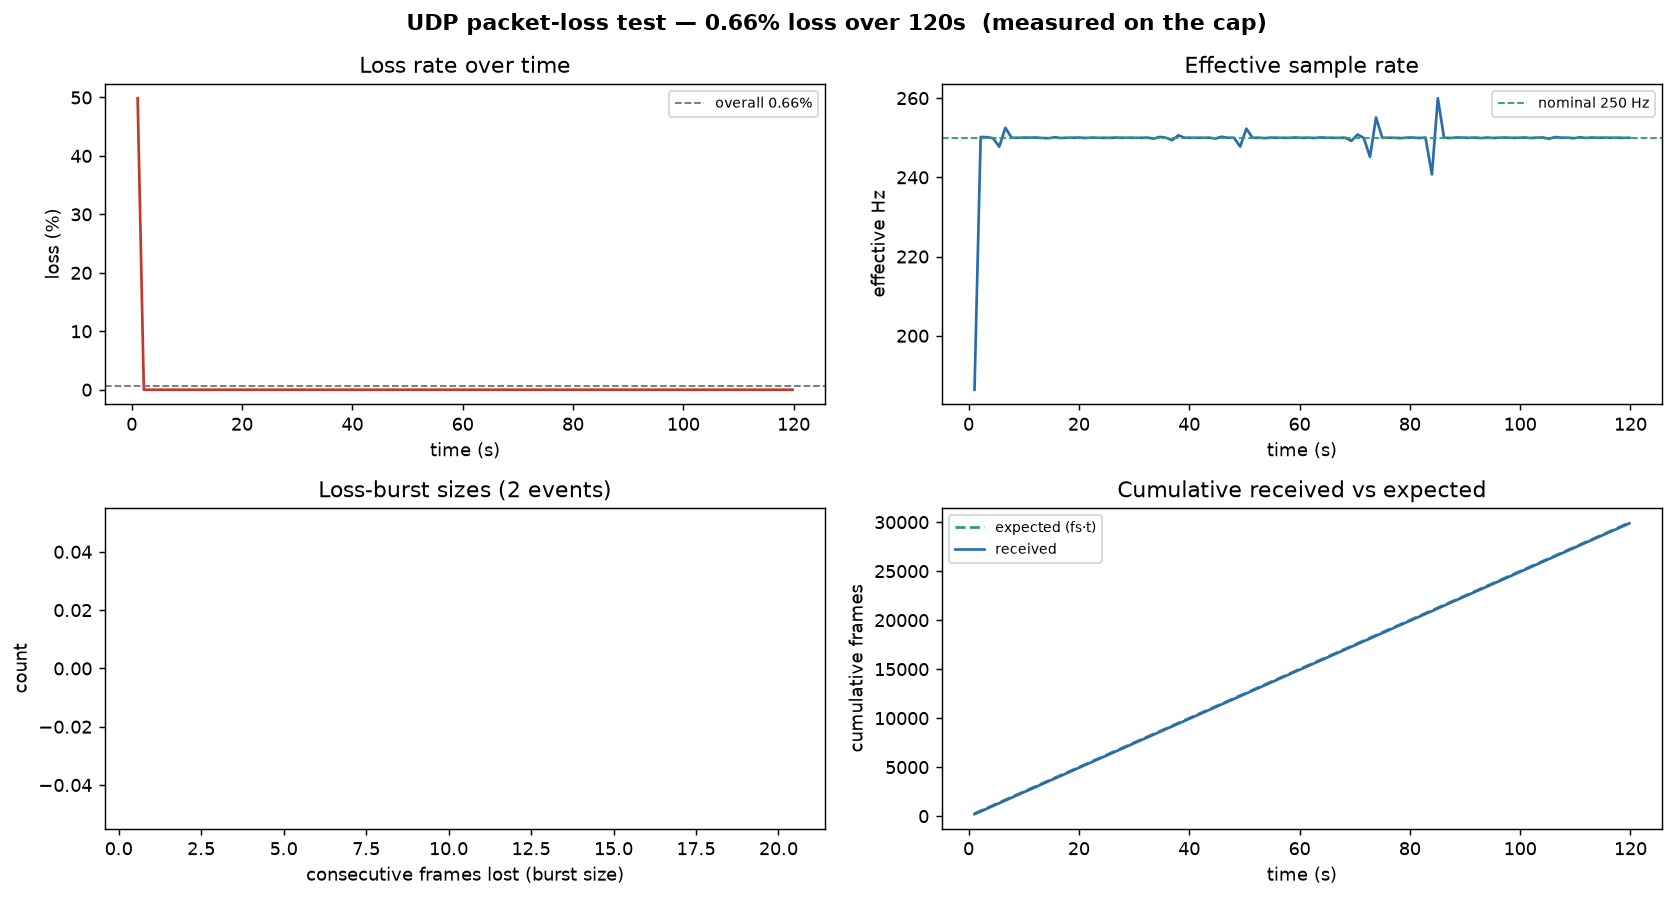
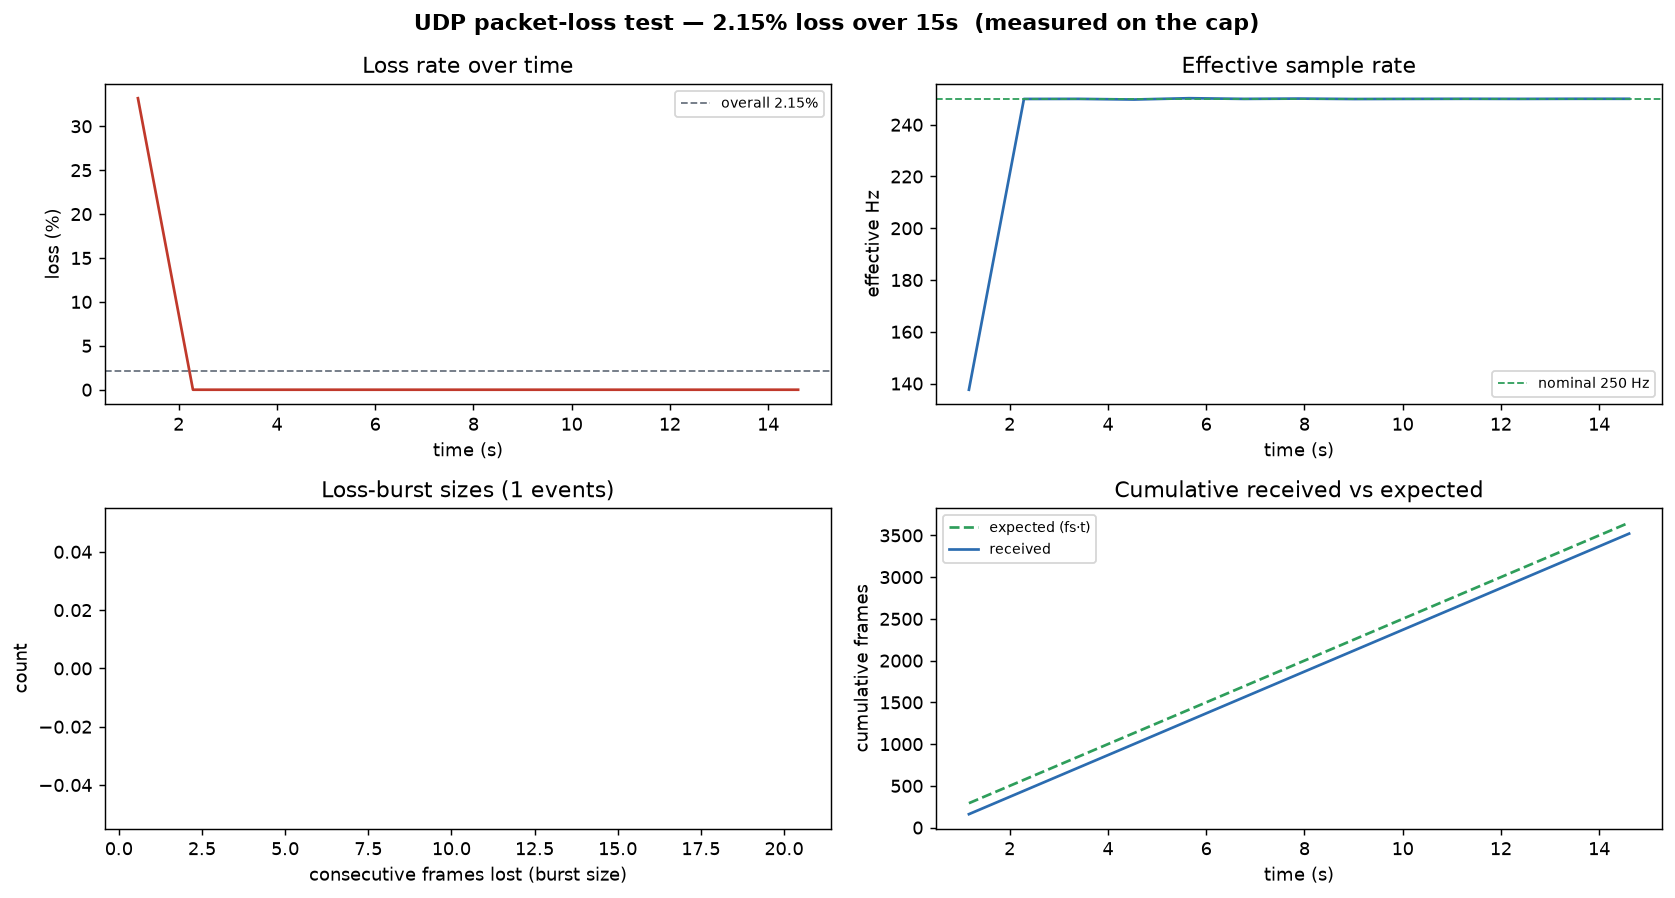
Drain the board_init transient; keep a dead channel out of CAR and ICA
Diagnosed live on the cap: F7 returns a CONSTANT +187500 µV (0x7FFFFF, positive full
scale) on every sample in BOTH EEG and impedance mode, while the other 31 channels are
healthy. That is an open input floating to the rail — a disconnected electrode/wire, not
a contact problem, so pressing harder can never help.

- impedance_gui: a railed channel's 31.2 Hz amplitude is 0 by construction (the signal is
  a constant), so the amplitude label printed a meaningless "0" and hid the fault. Railed
  channels now read RAIL again while good ones keep showing µV.
- Dead channel vs CAR (measured on that recording): the live median CAR is robust, but
  MNE's average reference is a MEAN and shifted every channel by ~6.4 mV when the dead
  channel was not excluded. artifacts.preprocess now always FLAGS bad channels (previously
  only when interpolating) and LiveDeblink.calibrate flags them before average-referencing
  and fitting ICA, which also avoids a rank-deficient fit. The live Receiver excludes dead
  channels from its median CAR, shows them as DEAD, and records them in the metadata.
- udp_lsl_bridge.drain(): board_init restarts the stream on each mode switch, so the
  frames buffered across it carry a discontinuous sequence counter and look like a ~200
  frame loss burst. Draining after init drops that; measured steady-state loss is 0.000%.

diff --git a/cap32_acquisition/cap_gui.py b/cap32_acquisition/cap_gui.py
@@ -105,6 +105,7 @@ class Receiver(threading.Thread):
         self._last_sample = None
         self.filled = 0                  # samples reconstructed to cover dropped frames
         self.car = True                  # live toggle: common average reference
+        self.bad = np.zeros(n_ch, bool)  # dead/railed channels — excluded from CAR
         self.deblink = None              # live toggle: a calibrated LiveDeblink operator or None
         self.calib = Ring(n_ch, int(30 * fs))   # rolling buffer for ICA calibration
 
@@ -165,7 +166,14 @@ class Receiver(threading.Thread):
         # Common Average Reference (robust, median) — removes common-mode / floating-REF
         # drift shared across channels (the vendor GUI does this before filtering). Toggleable
         # so you can see the untouched (floating-reference) data.
-        base = raw_chunk - np.median(raw_chunk, axis=0, keepdims=True) if self.car else raw_chunk
+        if self.car:
+            # Median (not mean) so one rogue channel can't shift the reference, AND skip
+            # channels already known to be dead/railed: an electrode pinned at +full scale
+            # would otherwise drag the reference by ~fullscale/n_ch on EVERY channel.
+            good = raw_chunk[~self.bad] if (~self.bad).any() else raw_chunk
+            base = raw_chunk - np.median(good, axis=0, keepdims=True)
+        else:
+            base = raw_chunk
         self.calib.append(base.astype(np.float32))            # pre-deblink, for ICA calibration
         if self.deblink is not None:                          # live ICA eye-artifact removal
             base = self.deblink.apply(base).astype(np.float32)
@@ -192,11 +200,12 @@ class Receiver(threading.Thread):
                     time.sleep(step / self.fs)
                 return
             # hardware: udp/tcp via the shared parser
-            from udp_lsl_bridge import UdpSource, TcpSource, parse_packet, board_init
+            from udp_lsl_bridge import UdpSource, TcpSource, parse_packet, board_init, drain
             self.report(f"connecting {self.kind}://{self.host}:{self.port} …")
             self.src = (UdpSource(self.host, self.port) if self.kind == "udp"
                         else TcpSource(self.host, self.port))
             board_init(self.src, self.fs)   # 'b' start -> rate -> '*' EEG mode (leaves impedance)
+            drain(self.src)                 # drop the mode-switch transient before counting loss
             self.report("connected · sent init (b / rate / *) · waiting for frames …")
             for pkt in self.src.frames():
                 if not self.running:
@@ -561,12 +570,18 @@ def refresh_scope(ctx):
         c.setData(ctx["tvec"], np.clip(y / clip, -1.0, 1.0) * half + ctx["baselines"][i])
 
 
-def refresh_quality(ctx):
+def refresh_quality(ctx, recv=None):
     b = ctx["raw"].snapshot()
+    dead = np.zeros(len(ctx["cells"]), bool)
     for i, (dot, val) in enumerate(ctx["cells"]):
         s, rms = quality(b[i], ctx["fs"])
+        flat = rms < 0.5                      # constant channel = disconnected / powered down
+        dead[i] = flat
         dot.setStyleSheet(f"color:{_COL[s]};font-size:13px;")
-        val.setText(f"{rms:5.1f} µV"); val.setStyleSheet(f"color:{_COL[s]};font-size:11px;")
+        val.setText("DEAD" if flat else f"{rms:5.1f} µV")
+        val.setStyleSheet(f"color:{_COL[s]};font-size:11px;")
+    if recv is not None:
+        recv.bad = dead                       # keep CAR / head-map free of dead channels
 
 
 def refresh_fft(ctx):
@@ -671,7 +686,9 @@ def run_live(fs, source_kind, host, port):
             data, trig, marker, gap = out
             meta = dict(paradigm=dict(kind="free-run (no paradigm)"),
                         acquisition=dict(source=r.kind, sfreq=float(ctx["fs"]),
-                                         car=bool(r.car), channels=list(CAP32_CHANNELS)),
+                                         car=bool(r.car), channels=list(CAP32_CHANNELS),
+                                         dead_channels=[CAP32_CHANNELS[i]
+                                                        for i in np.where(r.bad)[0]]),
                         link=dict(frames_received=int(r.n), frames_lost=int(r.lost),
                                   loss_pct=round(100 * r.lost / max(1, r.n + r.lost), 3)))
             base = save_recording(data, trig, marker, ctx["fs"], CAP32_CHANNELS,
@@ -729,7 +746,9 @@ def run_live(fs, source_kind, host, port):
                                  deblink=r.deblink is not None,
                                  display_filter=dict(low=c["low"].text(), high=c["high"].text(),
                                                      notch50=c["notch"].isChecked()),
-                                 channels=list(CAP32_CHANNELS)),
+                                 channels=list(CAP32_CHANNELS),
+                                 dead_channels=[CAP32_CHANNELS[i]
+                                                for i in np.where(r.bad)[0]]),
                 link=dict(frames_received=int(r.n), frames_lost=int(r.lost),
                           loss_pct=round(100 * r.lost / max(1, r.n + r.lost), 3),
                           samples_filled=int(r.filled)))
@@ -788,7 +807,7 @@ def run_live(fs, source_kind, host, port):
 
     ctx["root"].show()
     t1 = QtCore.QTimer(); t1.timeout.connect(lambda: refresh_scope(ctx)); t1.start(33)
-    t2 = QtCore.QTimer(); t2.timeout.connect(lambda: refresh_quality(ctx)); t2.start(500)
+    t2 = QtCore.QTimer(); t2.timeout.connect(lambda: refresh_quality(ctx, rec["thread"])); t2.start(500)
     t3 = QtCore.QTimer(); t3.timeout.connect(lambda: refresh_fft(ctx)); t3.start(300)
     QtCore.QTimer.singleShot(200, connect)   # auto-connect on launch (uses --source)
     app.exec()

diff --git a/src/acquisition/cap_gui.py b/src/acquisition/cap_gui.py
@@ -104,6 +104,7 @@ class Receiver(threading.Thread):
         self._last_sample = None
         self.filled = 0                  # samples reconstructed to cover dropped frames
         self.car = True                  # live toggle: common average reference
+        self.bad = np.zeros(n_ch, bool)  # dead/railed channels — excluded from CAR
         self.deblink = None              # live toggle: a calibrated LiveDeblink operator or None
         self.calib = Ring(n_ch, int(30 * fs))   # rolling buffer for ICA calibration
 
@@ -164,7 +165,14 @@ class Receiver(threading.Thread):
         # Common Average Reference (robust, median) — removes common-mode / floating-REF
         # drift shared across channels (the vendor GUI does this before filtering). Toggleable
         # so you can see the untouched (floating-reference) data.
-        base = raw_chunk - np.median(raw_chunk, axis=0, keepdims=True) if self.car else raw_chunk
+        if self.car:
+            # Median (not mean) so one rogue channel can't shift the reference, AND skip
+            # channels already known to be dead/railed: an electrode pinned at +full scale
+            # would otherwise drag the reference by ~fullscale/n_ch on EVERY channel.
+            good = raw_chunk[~self.bad] if (~self.bad).any() else raw_chunk
+            base = raw_chunk - np.median(good, axis=0, keepdims=True)
+        else:
+            base = raw_chunk
         self.calib.append(base.astype(np.float32))            # pre-deblink, for ICA calibration
         if self.deblink is not None:                          # live ICA eye-artifact removal
             base = self.deblink.apply(base).astype(np.float32)
@@ -191,11 +199,12 @@ class Receiver(threading.Thread):
                     time.sleep(step / self.fs)
                 return
             # hardware: udp/tcp via the shared parser
-            from udp_lsl_bridge import UdpSource, TcpSource, parse_packet, board_init
+            from udp_lsl_bridge import UdpSource, TcpSource, parse_packet, board_init, drain
             self.report(f"connecting {self.kind}://{self.host}:{self.port} …")
             self.src = (UdpSource(self.host, self.port) if self.kind == "udp"
                         else TcpSource(self.host, self.port))
             board_init(self.src, self.fs)   # 'b' start -> rate -> '*' EEG mode (leaves impedance)
+            drain(self.src)                 # drop the mode-switch transient before counting loss
             self.report("connected · sent init (b / rate / *) · waiting for frames …")
             for pkt in self.src.frames():
                 if not self.running:
@@ -560,12 +569,18 @@ def refresh_scope(ctx):
         c.setData(ctx["tvec"], np.clip(y / clip, -1.0, 1.0) * half + ctx["baselines"][i])
 
 
-def refresh_quality(ctx):
+def refresh_quality(ctx, recv=None):
     b = ctx["raw"].snapshot()
+    dead = np.zeros(len(ctx["cells"]), bool)
     for i, (dot, val) in enumerate(ctx["cells"]):
         s, rms = quality(b[i], ctx["fs"])
+        flat = rms < 0.5                      # constant channel = disconnected / powered down
+        dead[i] = flat
         dot.setStyleSheet(f"color:{_COL[s]};font-size:13px;")
-        val.setText(f"{rms:5.1f} µV"); val.setStyleSheet(f"color:{_COL[s]};font-size:11px;")
+        val.setText("DEAD" if flat else f"{rms:5.1f} µV")
+        val.setStyleSheet(f"color:{_COL[s]};font-size:11px;")
+    if recv is not None:
+        recv.bad = dead                       # keep CAR / head-map free of dead channels
 
 
 def refresh_fft(ctx):
@@ -670,7 +685,9 @@ def run_live(fs, source_kind, host, port):
             data, trig, marker, gap = out
             meta = dict(paradigm=dict(kind="free-run (no paradigm)"),
                         acquisition=dict(source=r.kind, sfreq=float(ctx["fs"]),
-                                         car=bool(r.car), channels=list(CAP32_CHANNELS)),
+                                         car=bool(r.car), channels=list(CAP32_CHANNELS),
+                                         dead_channels=[CAP32_CHANNELS[i]
+                                                        for i in np.where(r.bad)[0]]),
                         link=dict(frames_received=int(r.n), frames_lost=int(r.lost),
                                   loss_pct=round(100 * r.lost / max(1, r.n + r.lost), 3)))
             base = save_recording(data, trig, marker, ctx["fs"], CAP32_CHANNELS,
@@ -728,7 +745,9 @@ def run_live(fs, source_kind, host, port):
                                  deblink=r.deblink is not None,
                                  display_filter=dict(low=c["low"].text(), high=c["high"].text(),
                                                      notch50=c["notch"].isChecked()),
-                                 channels=list(CAP32_CHANNELS)),
+                                 channels=list(CAP32_CHANNELS),
+                                 dead_channels=[CAP32_CHANNELS[i]
+                                                for i in np.where(r.bad)[0]]),
                 link=dict(frames_received=int(r.n), frames_lost=int(r.lost),
                           loss_pct=round(100 * r.lost / max(1, r.n + r.lost), 3),
                           samples_filled=int(r.filled)))
@@ -787,7 +806,7 @@ def run_live(fs, source_kind, host, port):
 
     ctx["root"].show()
     t1 = QtCore.QTimer(); t1.timeout.connect(lambda: refresh_scope(ctx)); t1.start(33)
-    t2 = QtCore.QTimer(); t2.timeout.connect(lambda: refresh_quality(ctx)); t2.start(500)
+    t2 = QtCore.QTimer(); t2.timeout.connect(lambda: refresh_quality(ctx, rec["thread"])); t2.start(500)
     t3 = QtCore.QTimer(); t3.timeout.connect(lambda: refresh_fft(ctx)); t3.start(300)
     QtCore.QTimer.singleShot(200, connect)   # auto-connect on launch (uses --source)
     app.exec()

diff --git a/cap32_acquisition/artifacts.py b/cap32_acquisition/artifacts.py
@@ -99,11 +99,11 @@ def preprocess(raw, flags: CleanFlags, verbose=False):
         raw.notch_filter(flags.notch, verbose="ERROR")
     if flags.l_freq or flags.h_freq:
         raw.filter(flags.l_freq or None, flags.h_freq or None, verbose="ERROR")
-    if flags.interp:
-        bad = detect_bad_channels(raw)
-        raw.info["bads"] = bad
-        if bad and raw.get_montage() is not None:
-            raw.interpolate_bads(reset_bads=True, verbose="ERROR")
+    bad = detect_bad_channels(raw)          # always FLAG (so CAR/ICA exclude them) …
+    raw.info["bads"] = bad
+    report["bad"] = bad
+    if flags.interp and bad and raw.get_montage() is not None:
+        raw.interpolate_bads(reset_bads=True, verbose="ERROR")   # … interpolate only if asked
         report["interpolated"] = bad
     if flags.car:
         raw.set_eeg_reference("average", verbose="ERROR")
@@ -169,6 +169,10 @@ class LiveDeblink:
         info.set_montage(mne.channels.make_standard_montage("standard_1020"),
                          match_case=False, on_missing="ignore", verbose="ERROR")
         raw = mne.io.RawArray(buf_uv * 1e-6, info, verbose="ERROR")
+        # A dead/railed channel (e.g. an electrode pinned at +full scale) would otherwise
+        # poison the MEAN reference (~fullscale/n_ch on every channel) and make the data
+        # rank-deficient once ICA centres it. Exclude it from both.
+        raw.info["bads"] = detect_bad_channels(raw)
         raw.set_eeg_reference("average", verbose="ERROR")
         ica = fit_ica(raw)
         labels, probs, exclude = label_ica(ica, raw, method, prob=prob)

diff --git a/src/analysis/artifacts.py b/src/analysis/artifacts.py
@@ -98,11 +98,11 @@ def preprocess(raw, flags: CleanFlags, verbose=False):
         raw.notch_filter(flags.notch, verbose="ERROR")
     if flags.l_freq or flags.h_freq:
         raw.filter(flags.l_freq or None, flags.h_freq or None, verbose="ERROR")
-    if flags.interp:
-        bad = detect_bad_channels(raw)
-        raw.info["bads"] = bad
-        if bad and raw.get_montage() is not None:
-            raw.interpolate_bads(reset_bads=True, verbose="ERROR")
+    bad = detect_bad_channels(raw)          # always FLAG (so CAR/ICA exclude them) …
+    raw.info["bads"] = bad
+    report["bad"] = bad
+    if flags.interp and bad and raw.get_montage() is not None:
+        raw.interpolate_bads(reset_bads=True, verbose="ERROR")   # … interpolate only if asked
         report["interpolated"] = bad
     if flags.car:
         raw.set_eeg_reference("average", verbose="ERROR")
@@ -168,6 +168,10 @@ class LiveDeblink:
         info.set_montage(mne.channels.make_standard_montage("standard_1020"),
                          match_case=False, on_missing="ignore", verbose="ERROR")
         raw = mne.io.RawArray(buf_uv * 1e-6, info, verbose="ERROR")
+        # A dead/railed channel (e.g. an electrode pinned at +full scale) would otherwise
+        # poison the MEAN reference (~fullscale/n_ch on every channel) and make the data
+        # rank-deficient once ICA centres it. Exclude it from both.
+        raw.info["bads"] = detect_bad_channels(raw)
         raw.set_eeg_reference("average", verbose="ERROR")
         ica = fit_ica(raw)
         labels, probs, exclude = label_ica(ica, raw, method, prob=prob)

diff --git a/cap32_acquisition/udp_lsl_bridge.py b/cap32_acquisition/udp_lsl_bridge.py
@@ -119,6 +119,37 @@ def board_init(src, sfreq: float) -> None:
     time.sleep(0.1)
 
 
+def drain(src, seconds: float = 0.4) -> int:
+    """Discard whatever is already sitting in the socket buffer, then let the caller start
+    counting from a clean slate.
+
+    `board_init` sends b -> rate -> '*' with sleeps in between and the board RESTARTS its
+    stream on each mode switch, so the frames buffered across that transition carry a
+    discontinuous sequence counter. Reading them makes the very first second look like a
+    ~200-frame burst of "loss" that says nothing about link quality (measured on the real
+    cap: 200 lost in second 1, then 0 for the next 119 s). Call this once after board_init
+    and reset your `last_seq` to None."""
+    import time as _t
+    n = 0
+    old = src.sock.gettimeout()
+    src.sock.settimeout(0.05)
+    end = _t.time() + seconds
+    try:
+        while _t.time() < end:
+            try:
+                src.sock.recv(65536)
+                n += 1
+            except OSError:
+                break
+    finally:
+        src.sock.settimeout(old)
+        try:
+            src.buf.clear()          # drop any half-assembled frame too
+        except AttributeError:
+            pass
+    return n
+
+
 # --------------------------------------------------------------------------- IO
 def _reframe(read, buf: bytearray, layout: PacketLayout):
     """Pull complete `0xA0 … 0xC0` frames out of a growing byte stream.

diff --git a/src/acquisition/udp_lsl_bridge.py b/src/acquisition/udp_lsl_bridge.py
@@ -118,6 +118,37 @@ def board_init(src, sfreq: float) -> None:
     time.sleep(0.1)
 
 
+def drain(src, seconds: float = 0.4) -> int:
+    """Discard whatever is already sitting in the socket buffer, then let the caller start
+    counting from a clean slate.
+
+    `board_init` sends b -> rate -> '*' with sleeps in between and the board RESTARTS its
+    stream on each mode switch, so the frames buffered across that transition carry a
+    discontinuous sequence counter. Reading them makes the very first second look like a
+    ~200-frame burst of "loss" that says nothing about link quality (measured on the real
+    cap: 200 lost in second 1, then 0 for the next 119 s). Call this once after board_init
+    and reset your `last_seq` to None."""
+    import time as _t
+    n = 0
+    old = src.sock.gettimeout()
+    src.sock.settimeout(0.05)
+    end = _t.time() + seconds
+    try:
+        while _t.time() < end:
+            try:
+                src.sock.recv(65536)
+                n += 1
+            except OSError:
+                break
+    finally:
+        src.sock.settimeout(old)
+        try:
+            src.buf.clear()          # drop any half-assembled frame too
+        except AttributeError:
+            pass
+    return n
+
+
 # --------------------------------------------------------------------------- IO
 def _reframe(read, buf: bytearray, layout: PacketLayout):
     """Pull complete `0xA0 … 0xC0` frames out of a growing byte stream.

diff --git a/cap32_acquisition/impedance_gui.py b/cap32_acquisition/impedance_gui.py
@@ -172,7 +172,9 @@ def refresh(ctx, ring, reader):
         col = acolor(a[i], railed[i], injected)
         spots.append({"pos": ctx["xy"][i], "brush": pg.mkBrush(col)})
         # show the raw 31.2 Hz pickup AMPLITUDE (µV); colour still encodes state (incl. RAIL).
-        txt = f"{a[i]:.0f}" if (injected or railed[i]) else "?"
+        # a railed channel's 31.2 Hz amplitude is 0 by construction (the signal is a
+        # CONSTANT at full scale) — printing that "0" hides the real fault, so say RAIL.
+        txt = "RAIL" if railed[i] else (f"{a[i]:.0f}" if injected else "?")
         ctx["labels"][i].setText(txt)
         ctx["labels"][i].setColor(col)
     ctx["scatter"].setData(spots)

diff --git a/src/acquisition/impedance_gui.py b/src/acquisition/impedance_gui.py
@@ -171,7 +171,9 @@ def refresh(ctx, ring, reader):
         col = acolor(a[i], railed[i], injected)
         spots.append({"pos": ctx["xy"][i], "brush": pg.mkBrush(col)})
         # show the raw 31.2 Hz pickup AMPLITUDE (µV); colour still encodes state (incl. RAIL).
-        txt = f"{a[i]:.0f}" if (injected or railed[i]) else "?"
+        # a railed channel's 31.2 Hz amplitude is 0 by construction (the signal is a
+        # CONSTANT at full scale) — printing that "0" hides the real fault, so say RAIL.
+        txt = "RAIL" if railed[i] else (f"{a[i]:.0f}" if injected else "?")
         ctx["labels"][i].setText(txt)
         ctx["labels"][i].setColor(col)
     ctx["scatter"].setData(spots)

diff --git a/cap32_acquisition/udp_loss_test.py b/cap32_acquisition/udp_loss_test.py
@@ -101,9 +101,10 @@ class LossAccount:
 
 # ----------------------------------------------------------------- live capture
 def run_live(host, port, fs, seconds, window, settle=3.0):
-    from udp_lsl_bridge import UdpSource, parse_packet, board_init
+    from udp_lsl_bridge import UdpSource, parse_packet, board_init, drain
     src = UdpSource(host, port)
     board_init(src, fs); time.sleep(0.4)
+    drain(src)                      # discard the board_init transient
     src.sock.settimeout(2.0)
     acc = LossAccount(window, settle)
     print(f"measuring UDP loss for {seconds:.0f}s @ nominal {fs} Hz …  (Ctrl-C to stop early)\n")

diff --git a/src/acquisition/udp_loss_test.py b/src/acquisition/udp_loss_test.py
@@ -100,9 +100,10 @@ class LossAccount:
 
 # ----------------------------------------------------------------- live capture
 def run_live(host, port, fs, seconds, window, settle=3.0):
-    from udp_lsl_bridge import UdpSource, parse_packet, board_init
+    from udp_lsl_bridge import UdpSource, parse_packet, board_init, drain
     src = UdpSource(host, port)
     board_init(src, fs); time.sleep(0.4)
+    drain(src)                      # discard the board_init transient
     src.sock.settimeout(2.0)
     acc = LossAccount(window, settle)
     print(f"measuring UDP loss for {seconds:.0f}s @ nominal {fs} Hz …  (Ctrl-C to stop early)\n")
